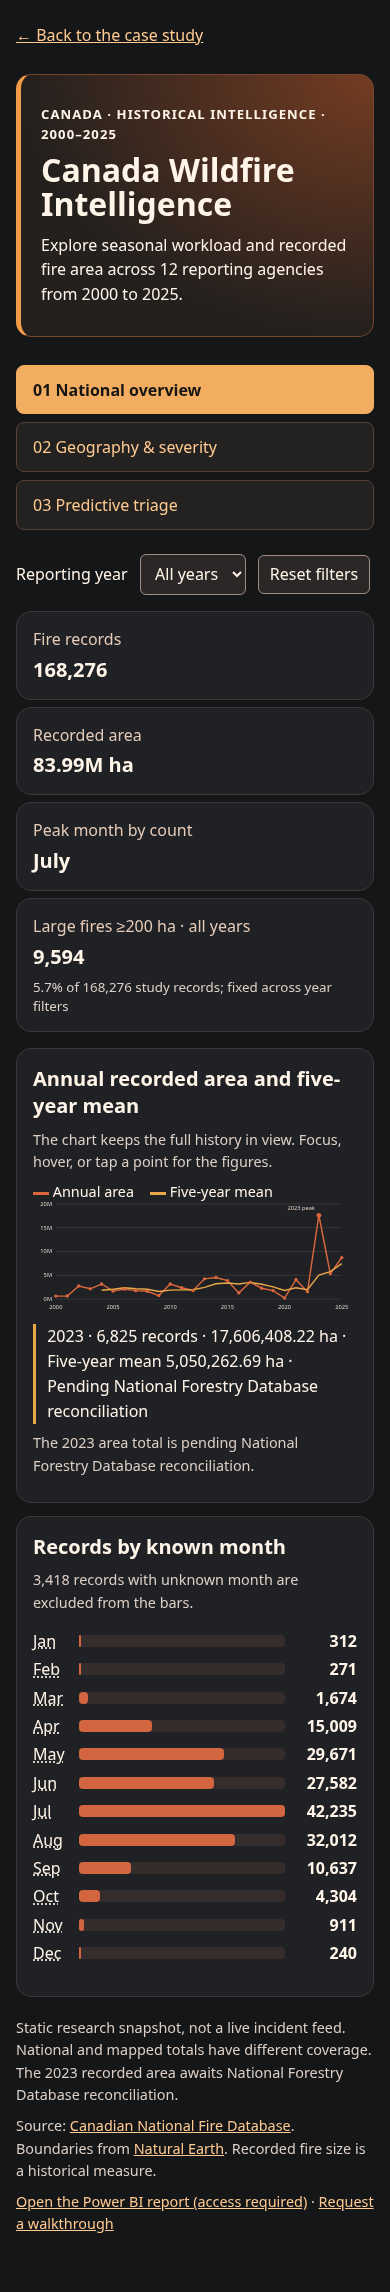
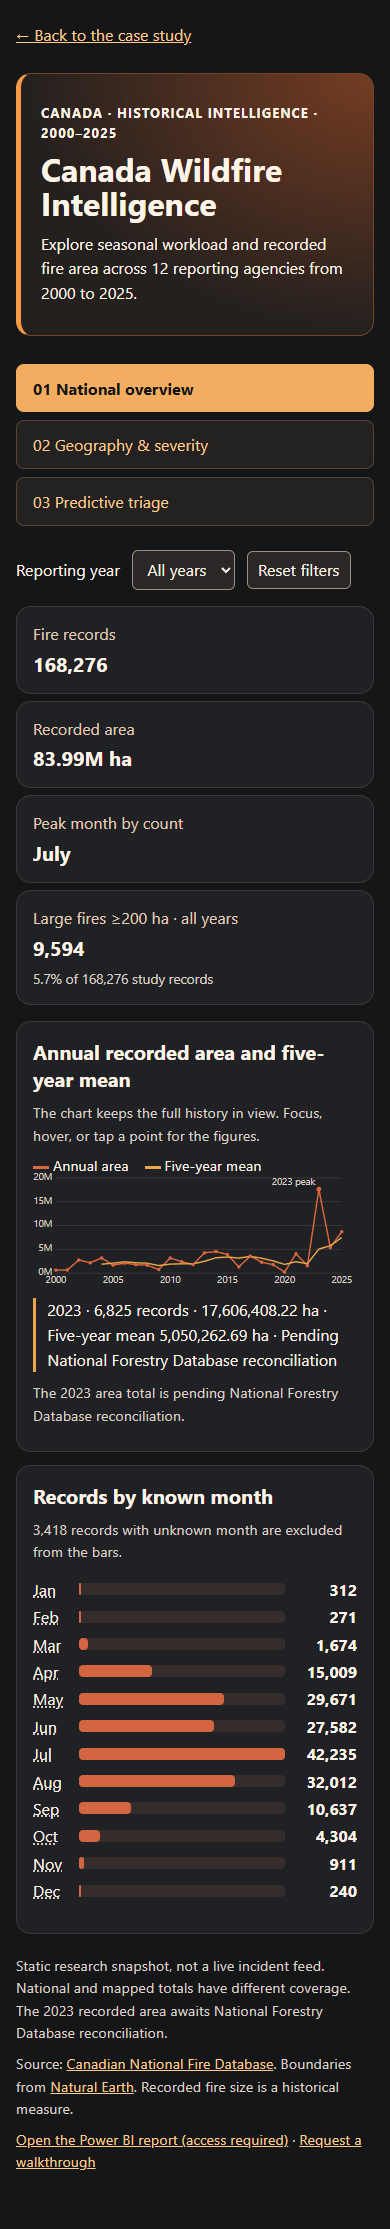
Fix wildfire dashboard audit findings

Changed region(s): [[0.0308, 0.0, 0.9538, 0.9906]]

diff --git a/wildfire-triage/dashboard/dashboard.js b/wildfire-triage/dashboard/dashboard.js
@@ -57,9 +57,8 @@ function init(data) {
     const point = svgNode("circle", {
       cx: x(year), cy: y(row.area), r: year === "2023" ? 5 : 3.5,
       class: "annual-point", tabindex: 0, role: "button",
-      "aria-label": year + ", " + exact.format(row.area) + " hectares. Show annual details",
     });
-    point.append(svgNode("title", {}, year + " · " + exact.format(row.area) + " ha"));
+    point.append(svgNode("title", {}, year + " · " + exact.format(row.area) + " ha · Show annual details"));
     for (const event of ["pointerenter", "focus", "click"]) {
       point.addEventListener(event, () => showYear(year));
     }
@@ -79,7 +78,7 @@ function init(data) {
   const shapes = new Map();
   for (const name of regionNames) {
     if (!data.regions[name].path) continue;
-    const path = svgNode("path", { d: data.regions[name].path, class: "region", "fill-rule": "evenodd", tabindex: 0, role: "button", "aria-label": "Select " + name });
+    const path = svgNode("path", { d: data.regions[name].path, class: "region", "fill-rule": "evenodd", tabindex: 0, role: "button" });
     const title = svgNode("title");
     path.append(title);
     path.addEventListener("click", () => {
@@ -108,13 +107,14 @@ function init(data) {
       path.setAttribute("fill", "hsl(15 58% " + (20 + strength * 35) + "%)");
       path.classList.toggle("selected", selected === name);
       path.classList.toggle("dimmed", Boolean(selected && selected !== name));
+      path.setAttribute("aria-pressed", String(selected === name));
       title.textContent = name + " · " + number.format(records) + " mapped records · " + exact.format(area) + " ha";
     }
     const [count, area] = selected ? totals.get(selected) : Array.from(shapes.keys())
       .reduce(([n, ha], name) => [n + totals.get(name)[0], ha + totals.get(name)[1]], [0, 0]);
     const ranking = [...totals].sort((a, b) => b[1][1] - a[1][1]);
-    renderBars("regional-bars", ranking.map(([name, values]) => [name, values[1], areaLabel(values[1])]), selected);
-    const label = selected || "Mapped to a province or territory";
+    renderBars("regional-bars", ranking.map(([name, values]) => [name, values[1], areaLabel(values[1])]), { selected });
+    const label = selected === "Unassigned" ? "Unassigned to a province or territory" : selected || "Mapped to a province or territory";
     byId("map-detail").textContent = label + " · " + number.format(count) + " records · " + exact.format(area) + " ha";
   }
 
@@ -131,6 +131,11 @@ function init(data) {
     byId("area").textContent = areaLabel(area);
     byId("peak").textContent = max ? monthNames[months.indexOf(max)] : "No known month";
     byId("month-note").textContent = number.format(unknown) + " records with unknown month are excluded from the bars.";
+    const geographicRecords = regionNames.reduce((sum, name) => sum + mappedTotals(name)[0], 0);
+    const coverage = number.format(records - geographicRecords) + " records without mappable coordinates are excluded.";
+    byId("geography-coverage").textContent = selected === "2023"
+      ? coverage + " The 2023 recorded area is pending National Forestry Database reconciliation."
+      : coverage;
     byId("months").replaceChildren(...months.map((count, index) => {
       const row = document.createElement("li");
       const label = document.createElement("abbr");
@@ -171,13 +176,12 @@ function init(data) {
   setupViews();
 }
 
-function renderBars(id, rows, selected = "") {
-  const max = Math.max(1, ...rows.map((row) => row[1]));
+function renderBars(id, rows, { selected = "", max = Math.max(1, ...rows.map((row) => row[1])) } = {}) {
   byId(id).replaceChildren(...rows.map(([label, value, display]) => {
     const item = document.createElement("li");
     if (label === selected) item.className = "highlight";
     const name = document.createElement("span"); name.textContent = label;
-    const track = document.createElement("span"); track.className = "track";
+    const track = document.createElement("span"); track.className = "track"; track.setAttribute("aria-hidden", "true");
     const bar = document.createElement("i"); bar.style.width = value / max * 100 + "%";
     track.append(bar);
     const count = document.createElement("strong"); count.textContent = display;
@@ -210,9 +214,9 @@ function table(id, headings, rows, caption) {
 function initIntelligence([policies, yearly, kpis, agencies, concentration]) {
   const kpi = kpis[0];
   byId("large-count").textContent = number.format(kpi.large_fire_records);
-  byId("large-share").textContent = percent(kpi.large_fire_share) + " of 168,276 study records; fixed across year filters";
-  renderBars("concentration", concentration.filter((r) => r.reporting_agency === "ALL").map((r) => ["Top " + r.top_pct + "%", r.area_share, percent(r.area_share)]));
-  renderBars("agency-bars", agencies.sort((a,b) => b.large_fire_share - a.large_fire_share).map((r) => [r.reporting_agency, r.large_fire_share, percent(r.large_fire_share)]));
+  byId("large-share").textContent = percent(kpi.large_fire_share) + " of " + number.format(kpi.reported_records) + " study records";
+  renderBars("concentration", concentration.filter((r) => r.reporting_agency === "ALL").map((r) => ["Top " + r.top_pct + "%", r.area_share, percent(r.area_share)]), { max: 1 });
+  renderBars("agency-bars", agencies.sort((a,b) => b.large_fire_share - a.large_fire_share).map((r) => [r.reporting_agency, r.large_fire_share, percent(r.large_fire_share)]), { max: 1 });
   const models = policies.filter((r) => !["Alert every record", "Alert no records"].includes(r.policy));
   const select = byId("policy");
   models.forEach((r) => select.add(new Option(r.policy, r.policy)));
@@ -221,8 +225,8 @@ function initIntelligence([policies, yearly, kpis, agencies, concentration]) {
   for (const v of [0, .25, .5, .75, 1]) {
     const y = 250 - v * 215, x = 60 + v * 490;
     plot.append(svgNode("line", {x1:60, x2:550, y1:y, y2:y, class:"grid"}));
-    plot.append(svgNode("text", {x:50,y:y+4,"text-anchor":"end",class:"axis"}, percent(v)));
-    plot.append(svgNode("text", {x,y:272,"text-anchor":"middle",class:"axis"}, percent(v)));
+    plot.append(svgNode("text", {x:50,y:y+4,"text-anchor":"end",class:"axis"}, v * 100 + "%"));
+    plot.append(svgNode("text", {x,y:272,"text-anchor":"middle",class:"axis"}, v * 100 + "%"));
   }
   plot.append(svgNode("text", {x:300,y:295,"text-anchor":"middle",class:"axis"}, "Records sent for review"));
   const dots = [];
@@ -244,7 +248,7 @@ function initIntelligence([policies, yearly, kpis, agencies, concentration]) {
     byId("triage-metrics").replaceChildren(...cards.map(([label,value]) => {
       const div = document.createElement("div"), dt = document.createElement("dt"), dd = document.createElement("dd"); dt.textContent = label; dd.textContent = value; div.append(dt,dd); return div;
     }));
-    byId("policy-detail").textContent = "Score threshold: "+r.threshold+" · "+number.format(r.true_positives)+" of 2,027 large fires flagged · "+number.format(r.true_positives+r.false_positives)+" reviews · "+number.format(r.false_positives)+" false positives.";
+    byId("policy-detail").textContent = "Score threshold: "+r.threshold+" · "+number.format(r.true_positives)+" of "+number.format(r.true_positives+r.false_negatives)+" large fires flagged · "+number.format(r.true_positives+r.false_positives)+" reviews · "+number.format(r.false_positives)+" false positives.";
     table("confusion", ["Observed final size", "Alert", "No alert"], [["≥200 ha", number.format(r.true_positives), number.format(r.false_negatives)], ["<200 ha", number.format(r.false_positives), number.format(r.true_negatives)]], r.policy);
     dots.forEach(([dot,name]) => { dot.setAttribute("r", name === r.policy ? 10 : 7); dot.setAttribute("aria-pressed", String(name === r.policy)); });
   }

diff --git a/wildfire-triage/dashboard/index.html b/wildfire-triage/dashboard/index.html
@@ -5,6 +5,7 @@
   <meta name="viewport" content="width=device-width, initial-scale=1">
   <meta name="description" content="Explore 26 years of Canadian wildfire records in an interactive portfolio dashboard.">
   <title>Canada Wildfire Intelligence | Interactive Executive Summary</title>
+  <link rel="icon" href="data:,">
   <link rel="stylesheet" href="dashboard.css">
   <script src="dashboard.js" defer></script>
 </head>
@@ -33,7 +34,7 @@
         <div><dt>Fire records</dt><dd id="records"></dd></div>
         <div><dt>Recorded area</dt><dd id="area"></dd></div>
         <div><dt>Peak month by count</dt><dd id="peak"></dd></div>
-        <div><dt>Large fires ≥200 ha · all years</dt><dd id="large-count">—</dd><small id="large-share"></small></div>
+        <div><dt>Large fires ≥200 ha · all years</dt><dd id="large-count">—</dd><dd id="large-share" class="metric-note"></dd></div>
       </dl>
       <section class="panel" aria-labelledby="annual-heading">
         <h2 id="annual-heading">Annual recorded area and five-year mean</h2>
@@ -43,13 +44,11 @@
         <p id="annual-detail" class="readout" aria-live="polite"></p>
         <p class="muted">The 2023 area total is pending National Forestry Database reconciliation.</p>
       </section>
-      <div class="split">
-        <section class="panel" aria-labelledby="month-heading">
-          <h2 id="month-heading">Records by known month</h2>
-          <p id="month-note" class="muted"></p>
-          <ol id="months" class="bars" aria-label="Monthly fire record counts"></ol>
-        </section>
-      </div>
+      <section class="panel" aria-labelledby="month-heading">
+        <h2 id="month-heading">Records by known month</h2>
+        <p id="month-note" class="muted"></p>
+        <ol id="months" class="bars" aria-label="Monthly fire record counts"></ol>
+      </section>
       </section>
       <section id="geography" class="view" aria-label="Geography and severity" hidden>
       <h2>Geographic &amp; Severity Intelligence</h2>
@@ -58,13 +57,13 @@
       <div class="split">
         <section class="panel" aria-labelledby="map-heading">
           <h2 id="map-heading">Where recorded area is concentrated</h2>
-          <div class="controls"><label for="province">Province or territory (map and ranking)</label>
+          <div class="controls"><label for="province">Geographic area (map and ranking)</label>
           <select id="province"><option value="">All areas</option></select></div>
-          <svg id="map" role="img" aria-label="Map of Canadian provinces and territories shaded by mapped recorded fire area"></svg>
+          <svg id="map" role="group" aria-label="Interactive map of Canadian provinces and territories shaded by recorded fire area"></svg>
           <p id="map-detail" class="readout" aria-live="polite"></p>
-          <p class="muted">Shading shows total mapped area, with darker regions carrying smaller totals. Geographic totals use mapped records. Agency totals use the organization that filed the report.</p>
+          <p class="muted">Darker regions have smaller recorded area totals. Zero mapped records can reflect study coverage.</p>
         </section>
-        <section class="panel"><h2>Recorded area by geography</h2><p class="muted">Mapped totals, hectares. Select a region on the map or in the dropdown to highlight it.</p><ol id="regional-bars" class="bars wide"></ol></section>
+        <section class="panel"><h2>Recorded area by geography</h2><p class="muted">Unassigned records are listed separately from provinces and territories. Select an area on the map or in the dropdown to highlight it.</p><p id="geography-coverage" class="muted" aria-live="polite"></p><ol id="regional-bars" class="bars wide"></ol></section>
       </div>
       <div class="split">
         <section class="panel"><h2>Area concentration</h2><p class="muted">Share of pooled recorded area accounted for by the largest fire records. Full study, all agencies.</p><ol id="concentration" class="bars wide"></ol><p class="muted">Top 10% and individual fire-size bins are unavailable in these exports. Fire size is an area measure, not ecological burn severity.</p></section>
@@ -80,10 +79,10 @@
         <p id="policy-detail" class="readout"></p>
         <div class="split">
           <section class="panel"><h2>Confusion matrix</h2><div class="table-wrap" id="confusion"></div><p class="muted">Rows show observed final size; columns show the alert decision.</p></section>
-          <section class="panel"><h2>Recall versus review workload</h2><svg id="tradeoff" viewBox="0 0 600 300" role="group" aria-label="Five model policies: review share on horizontal axis, large-fire recall on vertical axis"></svg><p class="muted">Select or focus a point to inspect a policy. Review rate counts all alerts, including false positives.</p></section>
+          <section class="panel"><h2>Recall versus review workload</h2><svg id="tradeoff" viewBox="0 0 600 305" role="group" aria-label="Five model policies: review share on horizontal axis, large-fire recall on vertical axis"></svg><p class="muted">Click or tap a point, or focus it and press Enter or Space, to select a policy. Review rate counts all alerts, including false positives.</p></section>
         </div>
-        <section class="panel"><h2>Five model alert policies</h2><div class="table-wrap" id="policy-table"></div><p class="muted">The CSV also includes alert-all and alert-none baselines. <a href="../test_policies.csv" download>Download all seven policies</a>.</p></section>
-        <section class="panel"><h2>Year-by-year validation · selected 10× policy</h2><p class="muted">Yearly exports exist only for the original 10× policy (threshold 0.042464523). This table stays fixed when another policy is selected.</p><div class="table-wrap" id="year-table"></div><p><a href="../test_by_year.csv" download>Download yearly results</a></p></section>
+        <section class="panel"><h2 id="policy-table-heading">Five model alert policies</h2><div class="table-wrap" id="policy-table" tabindex="0" role="region" aria-labelledby="policy-table-heading"></div><p class="muted">The CSV also includes alert-all and alert-none baselines. <a href="../test_policies.csv" download>Download all seven policies</a>.</p></section>
+        <section class="panel"><h2 id="year-table-heading">Year-by-year validation · original 10× policy</h2><p class="muted">Yearly exports exist only for the original 10× policy (threshold 0.042464523). This table stays fixed when another policy is selected.</p><div class="table-wrap" id="year-table" tabindex="0" role="region" aria-labelledby="year-table-heading"></div><p><a href="../test_by_year.csv" download>Download yearly results</a></p></section>
       </section>
     </div>
     <footer>

diff --git a/wildfire-triage/dashboard/dashboard.css b/wildfire-triage/dashboard/dashboard.css
@@ -31,6 +31,7 @@ svg { display: block; width: 100%; height: auto; overflow: visible; }
 .region { stroke: #8e7769; stroke-width: 1; cursor: pointer; }
 .region:hover, .region.selected { stroke: #fff4e8; stroke-width: 2.3; }
 .region.dimmed { opacity: .32; }
+.region:focus-visible { opacity: 1; stroke: #ffce8d; stroke-width: 3; }
 .bars { display: grid; gap: .4rem; padding: 0; list-style: none; font-variant-numeric: tabular-nums; }
 .bars li { display: grid; align-items: center; grid-template-columns: 2.4rem minmax(0, 1fr) 4rem; gap: .5rem; }
 .bars strong { text-align: right; }
@@ -45,7 +46,7 @@ header { background: radial-gradient(ellipse at top right, #743c22, transparent 
 .view > h2 { margin-top:1rem; font-size:1.6rem; }
 [hidden] { display:none !important; }
 .metrics { grid-template-columns:repeat(4,minmax(0,1fr)); }
-.metrics small { display:block; margin-top:.5rem; color:#dccfc5; line-height:1.4; }
+.metrics .metric-note { margin-top:.5rem; color:#dccfc5; font-size:.85rem; font-weight:400; line-height:1.4; }
 .panel { margin-top:.8rem; }
 .split .panel { margin-top:0; }
 .table-wrap { overflow-x:auto; }
@@ -59,3 +60,4 @@ thead { color:#ffca91; }
 .annual-point[aria-pressed=true] { fill:#ffd38d; stroke:#fff; stroke-width:2; }
 @media(max-width:900px) { .metrics { grid-template-columns:repeat(2,minmax(0,1fr)); } }
 @media(max-width:690px) { .metrics { grid-template-columns:1fr; } .view-nav { flex-direction:column; } .bars.wide li { grid-template-columns:minmax(5rem,1fr) minmax(2rem,1fr) 5rem; } }
+@media(max-width:520px) { .axis { font-size:20px; } }

diff --git a/wildfire-triage/index.html b/wildfire-triage/index.html
@@ -3,6 +3,7 @@
 <head>
 <meta charset="utf-8">
 <meta name="viewport" content="width=device-width, initial-scale=1">
+  <link rel="icon" href="data:,">
 <meta name="description" content="A retrospective Canadian wildfire case study on the trade-off between missed large fires and manual review workload.">
 <title>Canada Wildfire Large-Fire Triage</title>
 <link rel="stylesheet" href="../styles.css">

diff --git a/wildfire-triage/dashboard/tests/validate.py b/wildfire-triage/dashboard/tests/validate.py
@@ -6,7 +6,7 @@ from pathlib import Path
 
 ROOT = Path(__file__).resolve().parents[1]
 def rows(path):
-    with path.open() as f:
+    with path.open(encoding='utf-8', newline='') as f:
         return list(csv.DictReader(f))
 
 policies = rows(ROOT.parent / 'test_policies.csv')
@@ -24,7 +24,7 @@ selected = next(r for r in policies if r['policy'] == 'Miss cost 10×')
 for field in ['records','true_negatives','false_positives','false_negatives','true_positives']:
     assert sum(int(r[field]) for r in yearly) == int(selected[field])
 assert all(float(r['threshold']) == float(selected['threshold']) for r in yearly)
-summary = json.loads((ROOT/'summary.json').read_text())
+summary = json.loads((ROOT/'summary.json').read_text(encoding='utf-8'))
 kpi = rows(ROOT/'data/reference_kpis.csv')[0]
 assert sum(v['records'] for v in summary['annual'].values()) == int(kpi['reported_records']) == 168276
 area_difference = sum(v['area'] for v in summary['annual'].values()) - float(kpi['area_ha'])
@@ -37,6 +37,12 @@ for year, row in summary['annual'].items():
     unknown_month += row['records'] - sum(row['months'])
 for name, region in summary['regions'].items():
     assert all(int(y) in range(2000,2026) and n >= 0 and a >= 0 for y,(n,a) in region['years'].items()), name
+geographic_counts = {
+    year: sum(region['years'].get(year, (0, 0))[0] for region in summary['regions'].values())
+    for year in summary['annual']
+}
+assert all(count <= summary['annual'][year]['records'] for year, count in geographic_counts.items())
+assert int(kpi['reported_records']) - sum(geographic_counts.values()) == 207
 agencies = rows(ROOT/'data/vw_agency.csv')
 assert len({r['reporting_agency'] for r in agencies}) == len(agencies) == 12
 assert sum(int(r['reported_records']) for r in agencies) == 168276

diff --git a/wildfire-triage/dashboard/README.md b/wildfire-triage/dashboard/README.md
@@ -24,7 +24,9 @@ The 2000–2025 fixed-agency scope has 168,276 records, 83,988,359.25419672 reco
 
 All seven policy and three annual rows reconcile confusion-matrix totals, recall, precision, review rate and accuracy. The 10× policy has 18,814 held-out records: TP 1,498, FP 3,793, FN 529, TN 12,994. Recall is 73.9023%, precision 28.3122%, review share 28.1227%. Annual confusion counts sum exactly to the pooled result. Five model policies exclude the alert-all and alert-none baselines; all seven remain downloadable.
 
-The original annual summary rounds area to cents; its pooled difference from the precise KPI is +0.005803 ha. There are 3,418 records without a known month; they are excluded from monthly bars. Geographic assignment differs from reporting agency, so these denominators are kept separate. Unassigned geography appears explicitly in the ranking. Zero mapped records, including Prince Edward Island in this fixed-agency scope, do not establish absence of fires.
+All 26 annual record counts, area totals and five-year means match the research annual export at the dashboard's precision. The pooled area differs from the precise KPI by +0.005803 ha due to rounding. All 12 pooled month counts match the seasonality export. The monthly chart excludes 3,418 records without a known month.
+
+Geographic assignment and reporting agency use separate denominators. The geographic ranking includes records with mappable coordinates that could not be assigned to a province or territory under Unassigned. It excludes 207 records without mappable coordinates across the study period. Prince Edward Island's reporting agency is outside the study scope, while the geographic summary includes five records assigned there and 0.52 recorded hectares.
 
 The shipped concentration export supports top 1%, 3% and 5%, with pooled shares 81.7219%, 96.2133% and 98.8197%. It does not supply top 10% or fire-size-bin counts. These are not fabricated. This update does not export individual coordinates or predictions; point hotspots and clustering are omitted. Ecological severity is not inferred from hectares. Record-level duplicate and coordinate checks cannot be rerun from these aggregate files. The research evaluation documents ambiguous-identity exclusions; this update validates aggregates rather than retraining a model. The existing 2023 NFD reconciliation caveat is retained.
 
@@ -44,9 +46,9 @@ python -m http.server 8765
 CHROMIUM_PATH=/usr/bin/chromium node wildfire-triage/dashboard/tests/browser.cjs
 ```
 
-`CHROMIUM_PATH` is optional when Playwright's bundled Chromium is installed. `DASHBOARD_BASE` overrides the test server URL (include a trailing slash). `PREVIEW_DIR` optionally saves screenshots to an existing directory. The browser test verifies year/reset/map controls, synchronized year selectors, policy changes, fixed annual evaluation scope, keyboard selection, hash navigation, local links/resources, desktop and 390px layouts, and absence of JavaScript exceptions. No prior test suite or package manifest exists in this portfolio repository.
+`CHROMIUM_PATH` is optional when Playwright's bundled Chromium is installed. `DASHBOARD_BASE` overrides the test server URL (include a trailing slash). `PREVIEW_DIR` optionally saves screenshots to an existing directory. The browser test verifies year/reset/map controls, synchronized year selectors, policy changes, fixed annual evaluation scope, keyboard selection, hash navigation, local links and resources, desktop and 390px layouts, and absence of JavaScript exceptions and console errors or warnings.
 
-Desktop and mobile screenshots are in [`previews/`](previews/): [Overview](previews/overview.png), [Geography](previews/geography.png), [Triage](previews/triage.png), and corresponding `*-mobile.png` files. All checks passed with system Chromium and Playwright.
+Desktop and mobile screenshots are in [`previews/`](previews/). See [Overview](previews/overview.png), [Geography](previews/geography.png), [Triage](previews/triage.png), and the corresponding `*-mobile.png` files. The follow-up audit also checked viewport widths from 320 to 1440 pixels, ran axe on desktop and mobile, and verified that CSV downloads from the case study and dashboard matched the shipped files.
 
 ## Deployment
 
